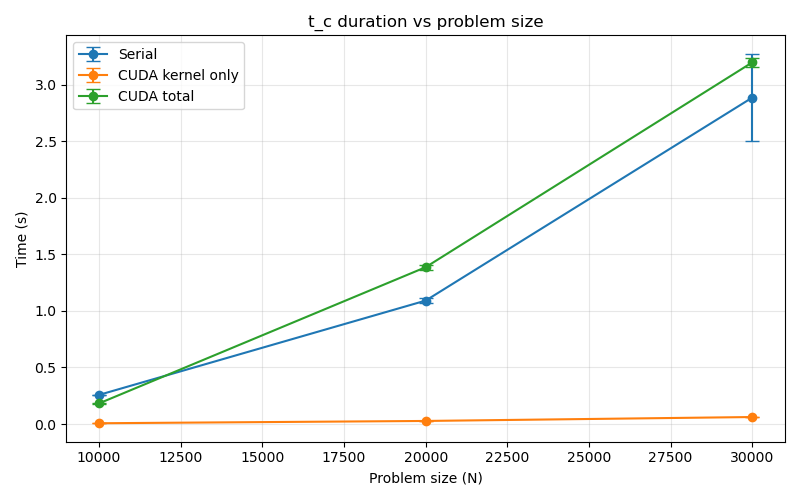
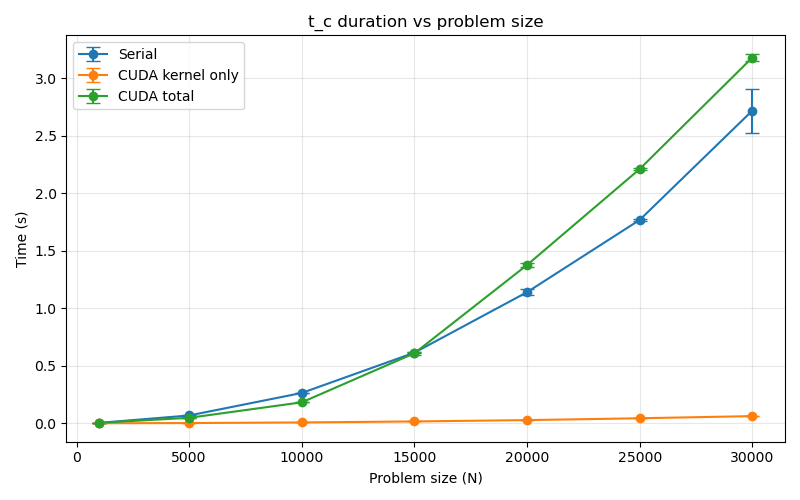
plots with more daya

diff --git a/coursework/gpu_dir/timings_plots.py b/coursework/gpu_dir/timings_plots.py
@@ -10,7 +10,7 @@ cuda_tasks_data = pd.read_csv("cuda_tasks_timings.csv")
 
 functions = ["t_a", "t_b", "t_c", "t_d", "t_e"]
 plot_functions = ["t_b", "t_c", "t_d", "t_e"]
-Ns = [10000, 20000, 30000]
+Ns = [1000,5000,10000,15000,20000,25000,30000]
 
 # ---- First plot: serial means with standard error ----
 serial_mean = serial_data.groupby("N")[functions].mean()
@@ -130,28 +130,27 @@ ax.grid(True, alpha=0.3)
 plt.tight_layout()
 plt.savefig("plots/total_time_serial_vs_tasks.png")
 
-# ---- Linear regression for total runtime ----
+# ---- Quadratic regression for total runtime ----
 
-# Extract means (already computed earlier)
+# Extract means
 serial_y = serial_total_mean.loc[Ns].values
 cuda_tasks_y = cuda_tasks_total_mean.loc[Ns].values
 
-# Perform linear regression (degree 1 polynomial)
-serial_coeffs = np.polyfit(Ns, serial_y, 1)
-cuda_coeffs = np.polyfit(Ns, cuda_tasks_y, 1)
+# Perform quadratic regression (degree 2 polynomial)
+serial_coeffs = np.polyfit(Ns, serial_y, 2)
+cuda_coeffs = np.polyfit(Ns, cuda_tasks_y, 2)
 
-# Extract slope and intercept
-m_serial, c_serial = serial_coeffs
-m_cuda, c_cuda = cuda_coeffs
+# Extract coefficients
+a_serial, b_serial, c_serial = serial_coeffs
+a_cuda, b_cuda, c_cuda = cuda_coeffs
 
-# Generate smooth N values for plotting fitted lines
-N_fit = np.linspace(min(Ns), max(Ns), 100)
+# Generate smooth N values for plotting fitted curves
+N_fit = np.linspace(min(Ns), max(Ns), 200)
 
-serial_fit = m_serial * N_fit + c_serial
-cuda_fit = m_cuda * N_fit + c_cuda
+serial_fit = a_serial * N_fit**2 + b_serial * N_fit + c_serial
+cuda_fit = a_cuda * N_fit**2 + b_cuda * N_fit + c_cuda
 
-
-# ---- Plot with regression lines ----
+# ---- Plot with quadratic regression curves ----
 fig, ax = plt.subplots(figsize=(8, 5))
 
 # Original data with error bars
@@ -173,26 +172,26 @@ ax.errorbar(
     label="CUDA tasks (data)"
 )
 
-# Fitted lines
+# Fitted curves
 ax.plot(
     N_fit,
     serial_fit,
     '--',
-    label=f"Serial fit: T(N) = {m_serial:.2e} N + {c_serial:.2e}"
+    label=f"Serial fit: T(N) = {a_serial:.2e}N² + {b_serial:.2e}N + {c_serial:.2e}"
 )
 
 ax.plot(
     N_fit,
     cuda_fit,
     '--',
-    label=f"CUDA tasks fit: T(N) = {m_cuda:.2e} N + {c_cuda:.2e}"
+    label=f"CUDA tasks fit: T(N) = {a_cuda:.2e}N² + {b_cuda:.2e}N + {c_cuda:.2e}"
 )
 
 ax.set_xlabel("Problem size (N)")
 ax.set_ylabel("Total time (s)")
-ax.set_title("Total runtime with linear regression")
+ax.set_title("Total runtime with quadratic regression")
 ax.legend()
 ax.grid(True, alpha=0.3)
 
 plt.tight_layout()
-plt.savefig("plots/total_time_regression.png")
+plt.savefig("plots/total_time_quadratic_regression.png")
